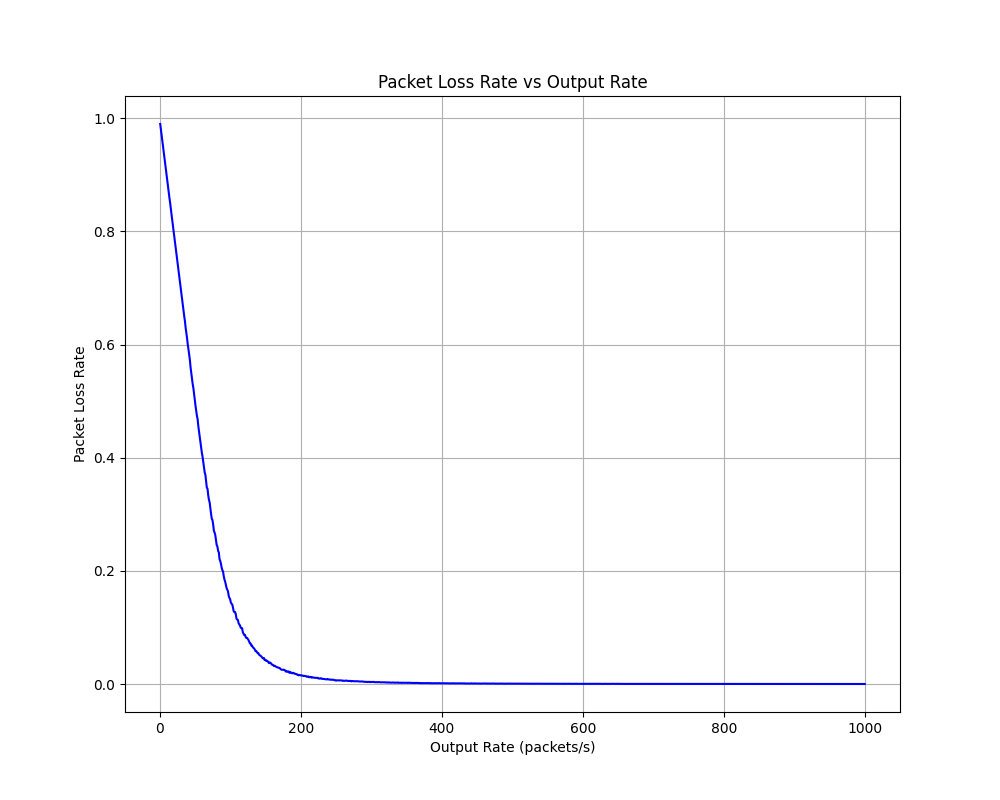
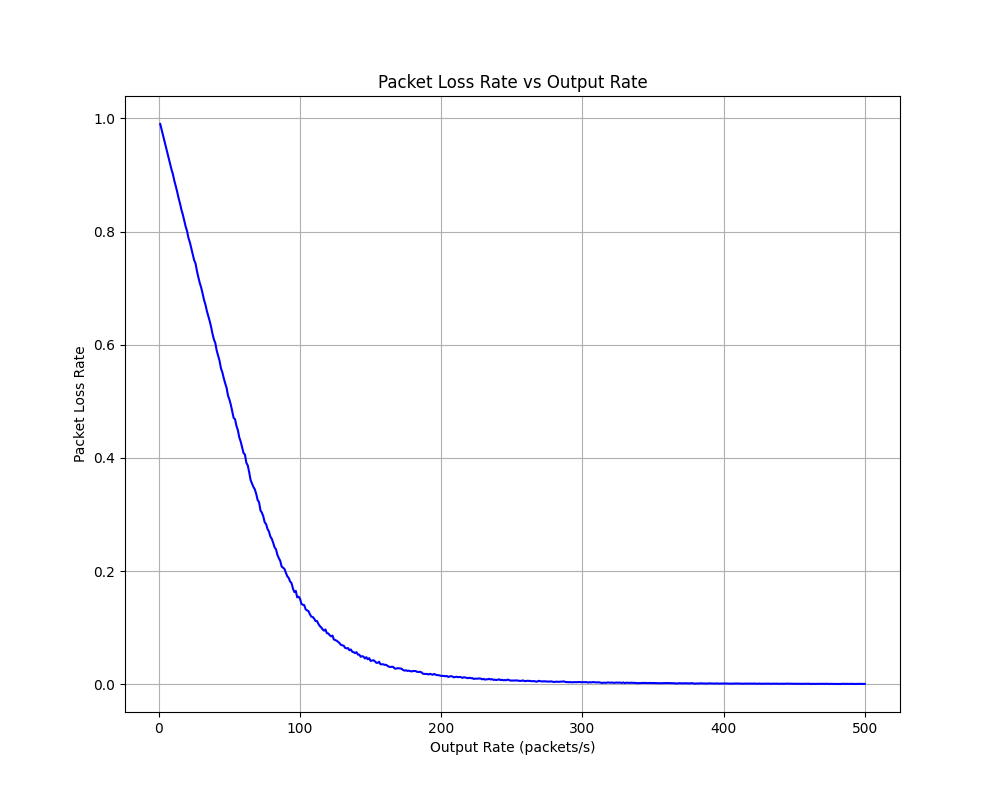
update part 1 files and plots

diff --git a/q1/lab5_1a.py b/q1/lab5_1a.py
@@ -2,10 +2,10 @@ import numpy as np
 import matplotlib.pyplot as plt
 
 #PARAMETERS
-arrival_rate = 100
-output_rate = 1000
-sim_time = 1000
-queue_sizes = range(1,1000)  # Queue sizes from 1 to 1000
+arrival_rate = 100 
+output_rate = 1000 # (R)
+sim_time = 500
+queue_sizes = range(0,500)  # (B)
 #PARAMETERS
 
 
@@ -66,6 +66,8 @@ plt.plot(queue_sizes, packet_loss_rates, color='blue')
 plt.title("Packet Loss Rate vs Queue Size")
 plt.xlabel("Queue Size (B)")
 plt.ylabel("Packet Loss Rate")
+
+plt.ylim(bottom=0)  # Set Y-axis minimum to 0
 plt.grid()
 plt.savefig('5_1a_loss_rate.png')
 
@@ -75,6 +77,8 @@ plt.figure(figsize=(10, 8))
 plt.plot(queue_sizes, mean_output_rates, color='orange')
 plt.title("Mean Output Rate vs Queue Size")
 plt.xlabel("Queue Size (B)")
+
+plt.ylim(bottom=0)  # Set Y-axis minimum to 0
 plt.ylabel("Mean Output Rate (packets/s)")
 plt.grid()
 plt.savefig('5_1a_out_rate.png')

diff --git a/q1/lab5_1b.py b/q1/lab5_1b.py
@@ -3,8 +3,8 @@ import matplotlib.pyplot as plt
 
 #PARAMETERS
 arrival_rate = 100
-output_rates = range(1,1000) # output rates from 1 to 1000
-sim_time = 1000
+output_rates = range(1,501) # output rates from 1 to 1000
+sim_time = 500
 queue_size = 3 
 #PARAMETERS
 
